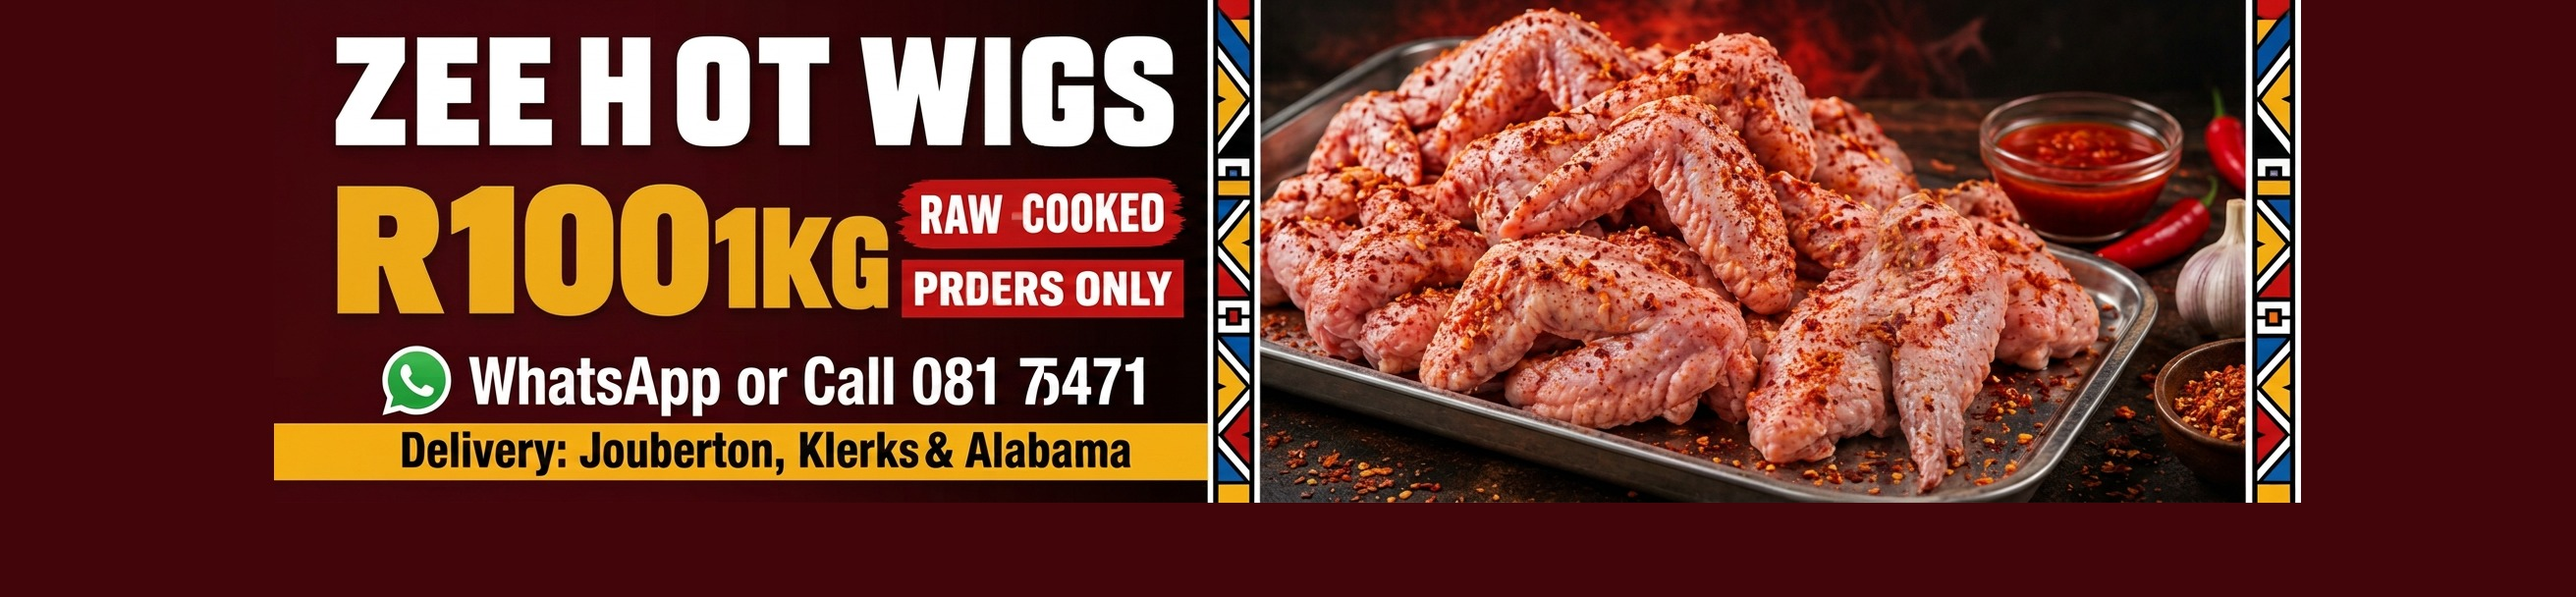
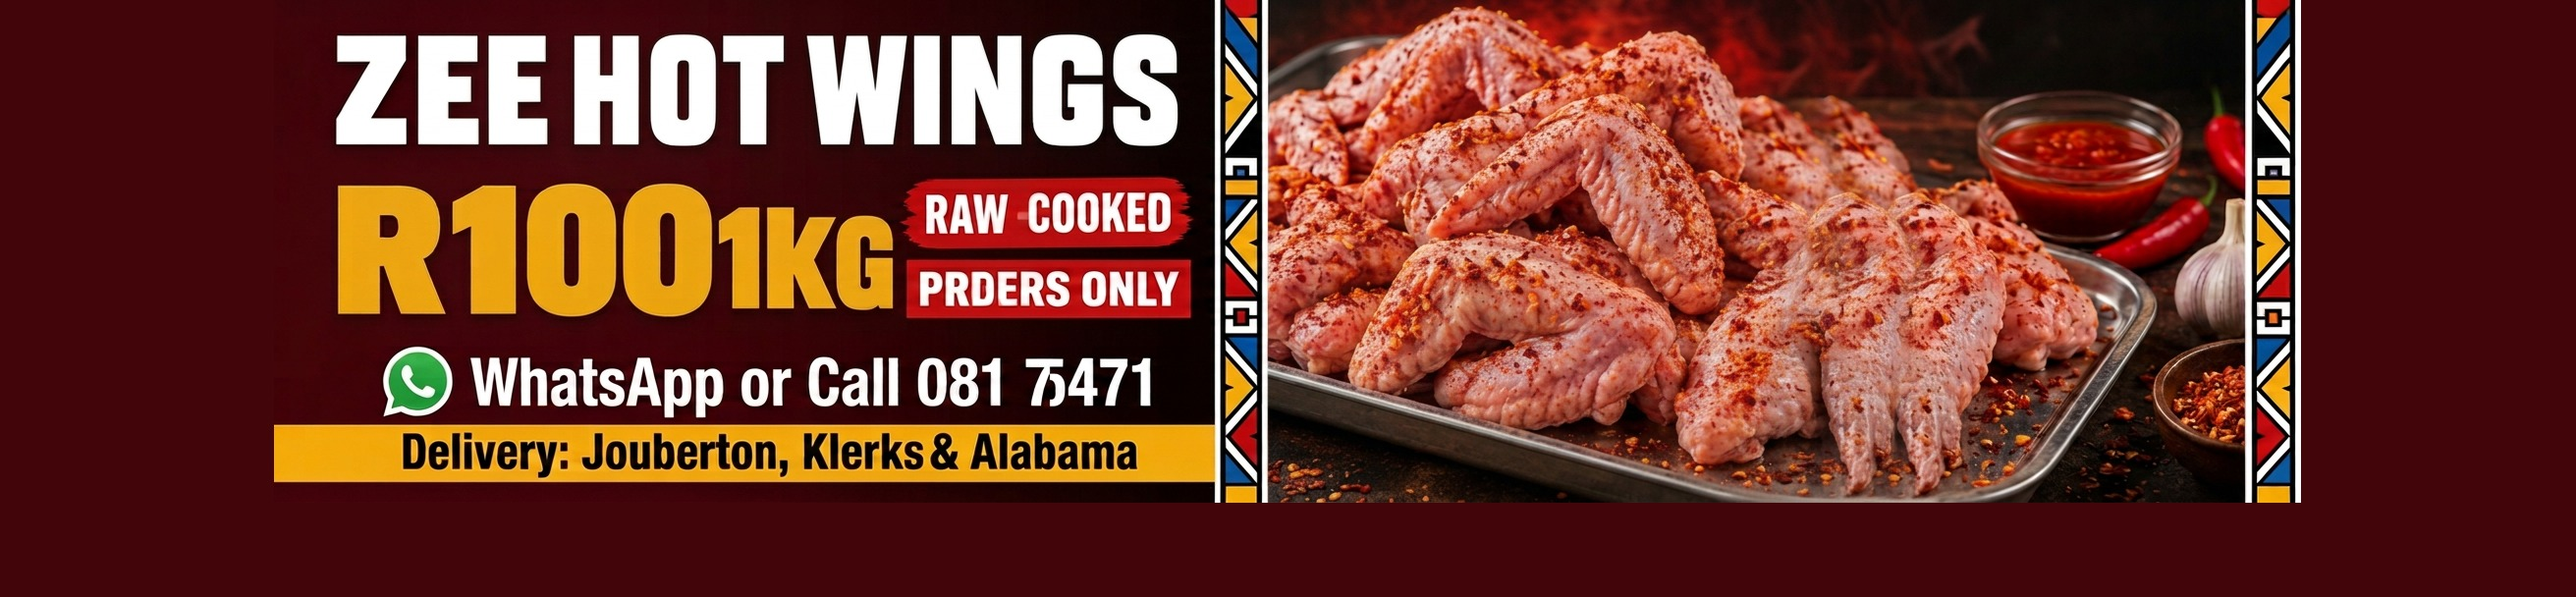
Changes

diff --git a/src/components/ZeeHotWingsSlide.tsx b/src/components/ZeeHotWingsSlide.tsx
@@ -1,6 +1,6 @@
 import { cn } from '@/lib/utils';
 import zeePhone from '@/assets/zee-hot-wings-phone.jpg';
-import zeeWide from '@/assets/zee-hot-wings-wide-v2.jpg';
+import zeeWide from '@/assets/zee-hot-wings-wide-v3.jpg';
 import zeeFull from '@/assets/zee-hot-wings-full.jpg';
 
 const ZEE_NUMBER = '27817915471';
